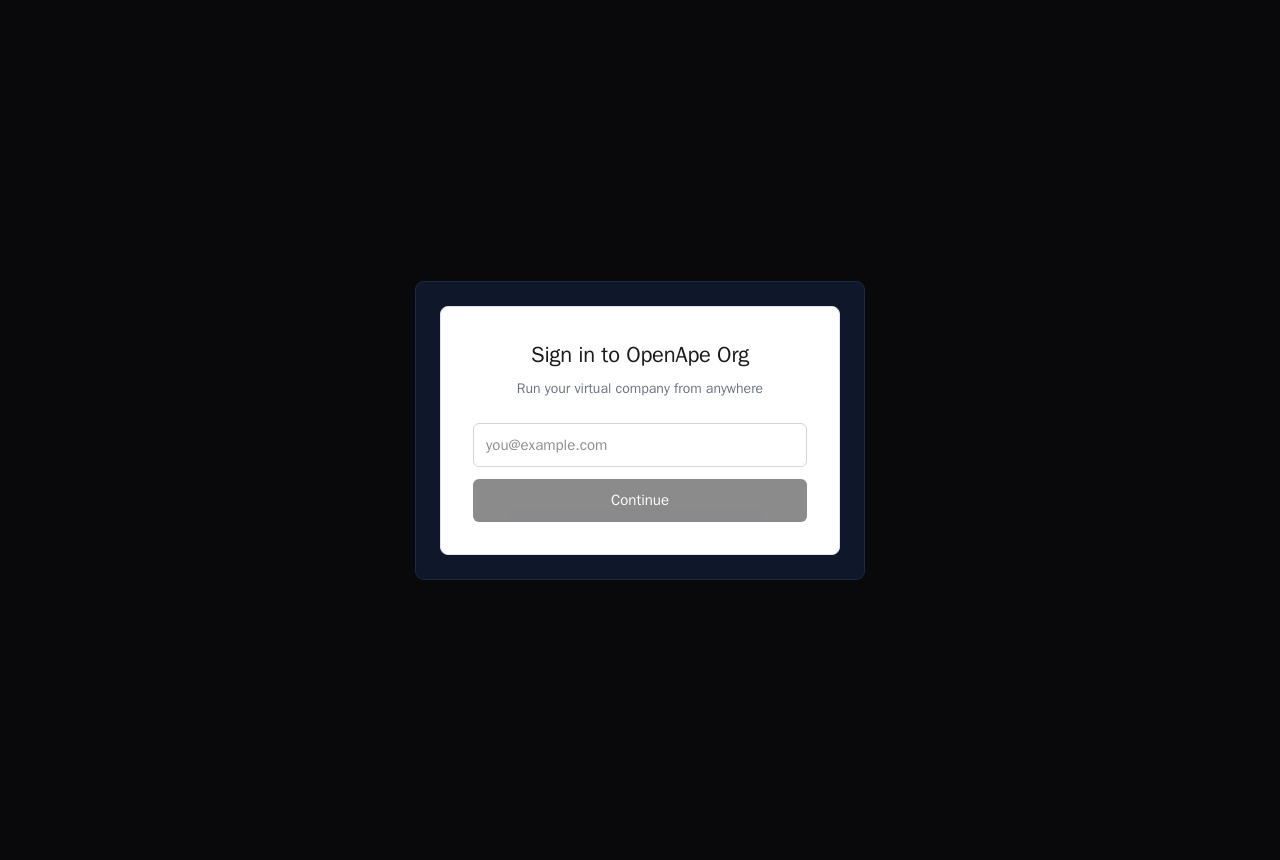
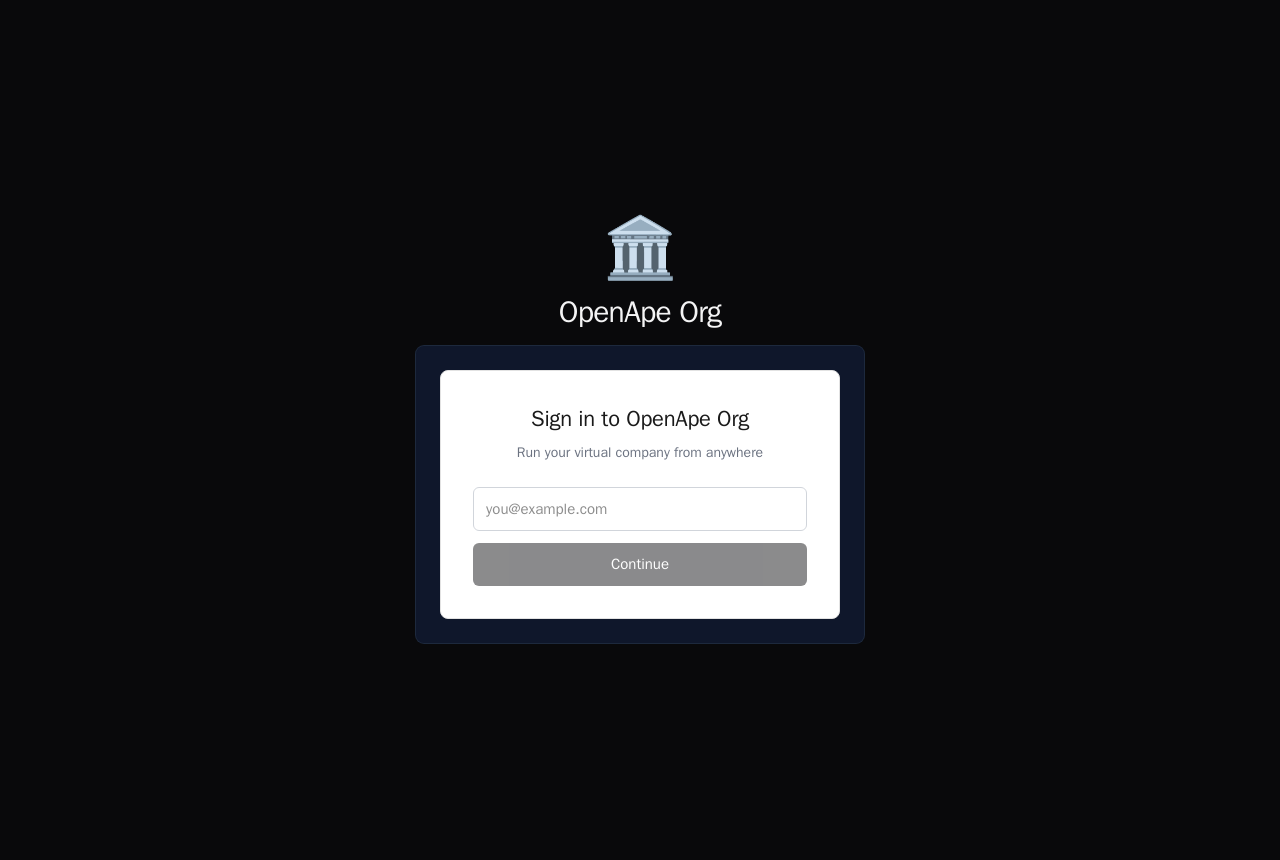
feat(org): sign-in on the start page (no /login redirect) (#621)

Changed region(s): [[0.3125, 0.2419, 0.6875, 0.7558]]

diff --git a/apps/openape-org/app/docs.generated.ts b/apps/openape-org/app/docs.generated.ts
@@ -1,3 +1,3 @@
 // AUTO-GENERATED from docs/flows.md by scripts/build-docs.mjs — do not edit.
 export const docsMeta = {"title":"OpenApe Org — flows","introHtml":"<p>How a user gets into Org. Screenshots are captured live from the containerized\nE2E stack (<code>compose/demo/run.sh</code>) and refreshed on every run.</p>\n"}
-export const docsSections = [{"id":"ddisa-sso-login","title":"DDISA SSO login","html":"<p>Org is a DDISA <strong>Service Provider</strong>. A user signs in with the same passkey +\nIdP as everywhere else — Org discovers the IdP from the user&#39;s email domain\nand redirects them to authorize; an existing IdP session makes it one click.</p>\n<p>Org&#39;s login page:</p>\n<p><figure class=\"shot\"><figcaption class=\"shot-bar\"><span class=\"shot-dot\"></span><span class=\"shot-dot\"></span><span class=\"shot-dot\"></span><span class=\"shot-label\">Org login</span></figcaption><img src=\"/docs/screenshots/10-org-landing.png\" alt=\"Org login\" loading=\"lazy\"></figure></p>\n"},{"id":"org-home","title":"Org home","html":"<p>Signed in as <code>demo@openape.test</code> — the organization home, where the CEO-led\nagent organization lives (vision, team, budget, reports):</p>\n<p><figure class=\"shot\"><figcaption class=\"shot-bar\"><span class=\"shot-dot\"></span><span class=\"shot-dot\"></span><span class=\"shot-dot\"></span><span class=\"shot-label\">Org home</span></figcaption><img src=\"/docs/screenshots/11-org-home.png\" alt=\"Org home\" loading=\"lazy\"></figure></p>\n"}]
+export const docsSections = [{"id":"ddisa-sso-login","title":"DDISA SSO login","html":"<p>Org is a DDISA <strong>Service Provider</strong>. A user signs in with the same passkey +\nIdP as everywhere else — Org discovers the IdP from the user&#39;s email domain\nand redirects them to authorize; an existing IdP session makes it one click.</p>\n<p>Org&#39;s start page (the sign-in is right there — no extra login hop):</p>\n<p><figure class=\"shot\"><figcaption class=\"shot-bar\"><span class=\"shot-dot\"></span><span class=\"shot-dot\"></span><span class=\"shot-dot\"></span><span class=\"shot-label\">Org start page</span></figcaption><img src=\"/docs/screenshots/10-org-landing.png\" alt=\"Org start page\" loading=\"lazy\"></figure></p>\n"},{"id":"org-home","title":"Org home","html":"<p>Signed in as <code>demo@openape.test</code> — the organization home, where the CEO-led\nagent organization lives (vision, team, budget, reports):</p>\n<p><figure class=\"shot\"><figcaption class=\"shot-bar\"><span class=\"shot-dot\"></span><span class=\"shot-dot\"></span><span class=\"shot-dot\"></span><span class=\"shot-label\">Org home</span></figcaption><img src=\"/docs/screenshots/11-org-home.png\" alt=\"Org home\" loading=\"lazy\"></figure></p>\n"}]

diff --git a/apps/openape-org/app/pages/index.vue b/apps/openape-org/app/pages/index.vue
@@ -1,5 +1,5 @@
 <script setup lang="ts">
-import { onMounted, ref, watch } from 'vue'
+import { ref, watch } from 'vue'
 import { useOpenApeAuth } from '#imports'
 
 const { t } = useI18n()
@@ -31,7 +31,9 @@ async function load() {
   }
   catch (err: any) {
     if (err?.statusCode === 401) {
-      await navigateTo('/login')
+      // Session expired — clearing the user swaps the page to the sign-in
+      // state (the start page IS the login page, no /login redirect).
+      await fetchUser()
       return
     }
     error.value = err?.data?.statusMessage || err?.message || t('orgsIndex.error.loadFailed')
@@ -42,7 +44,6 @@ async function load() {
 }
 
 watch(user, (u) => { if (u) load() }, { immediate: true })
-onMounted(() => { if (!user.value) navigateTo('/login') })
 
 async function onCreated(payload: { id: string }) {
   await navigateTo(`/orgs/${payload.id}`)
@@ -50,7 +51,34 @@ async function onCreated(payload: { id: string }) {
 </script>
 
 <template>
-  <div class="min-h-dvh bg-zinc-950 text-zinc-100">
+  <!-- Signed out: the start page IS the login page (DDISA SPs put the email
+       form right on the landing page — no extra hop to /login). -->
+  <div v-if="!user" class="min-h-dvh flex flex-col bg-zinc-950 text-zinc-100">
+    <main class="flex-1 flex items-center justify-center px-4 py-12">
+      <div class="w-full max-w-md space-y-4 text-center">
+        <div class="text-6xl" aria-hidden="true">
+          🏛
+        </div>
+        <h1 class="text-3xl font-bold tracking-tight">
+          {{ $t('app.title') }}
+        </h1>
+        <OpenApeOAuthErrorAlert
+          class="text-left w-full"
+          :messages="{ access_denied: $t('login.oauth.accessDenied') }"
+        />
+        <UCard class="text-left">
+          <OpenApeAuth
+            :title="$t('login.card.title')"
+            :subtitle="$t('login.card.subtitle')"
+            :button-text="$t('login.card.button')"
+            post-login-redirect="/"
+          />
+        </UCard>
+      </div>
+    </main>
+  </div>
+
+  <div v-else class="min-h-dvh bg-zinc-950 text-zinc-100">
     <header class="border-b border-(--ui-border) px-4 sm:px-6 py-3 flex items-center justify-between sticky top-0 z-10 bg-zinc-950/95 backdrop-blur">
       <div class="flex items-center gap-2 min-w-0">
         <span class="text-2xl shrink-0">🏛</span>

diff --git a/apps/openape-org/docs/flows.md b/apps/openape-org/docs/flows.md
@@ -9,9 +9,9 @@ Org is a DDISA **Service Provider**. A user signs in with the same passkey +
 IdP as everywhere else — Org discovers the IdP from the user's email domain
 and redirects them to authorize; an existing IdP session makes it one click.
 
-Org's login page:
+Org's start page (the sign-in is right there — no extra login hop):
 
-![Org login](/docs/screenshots/10-org-landing.png)
+![Org start page](/docs/screenshots/10-org-landing.png)
 
 ## Org home
 
